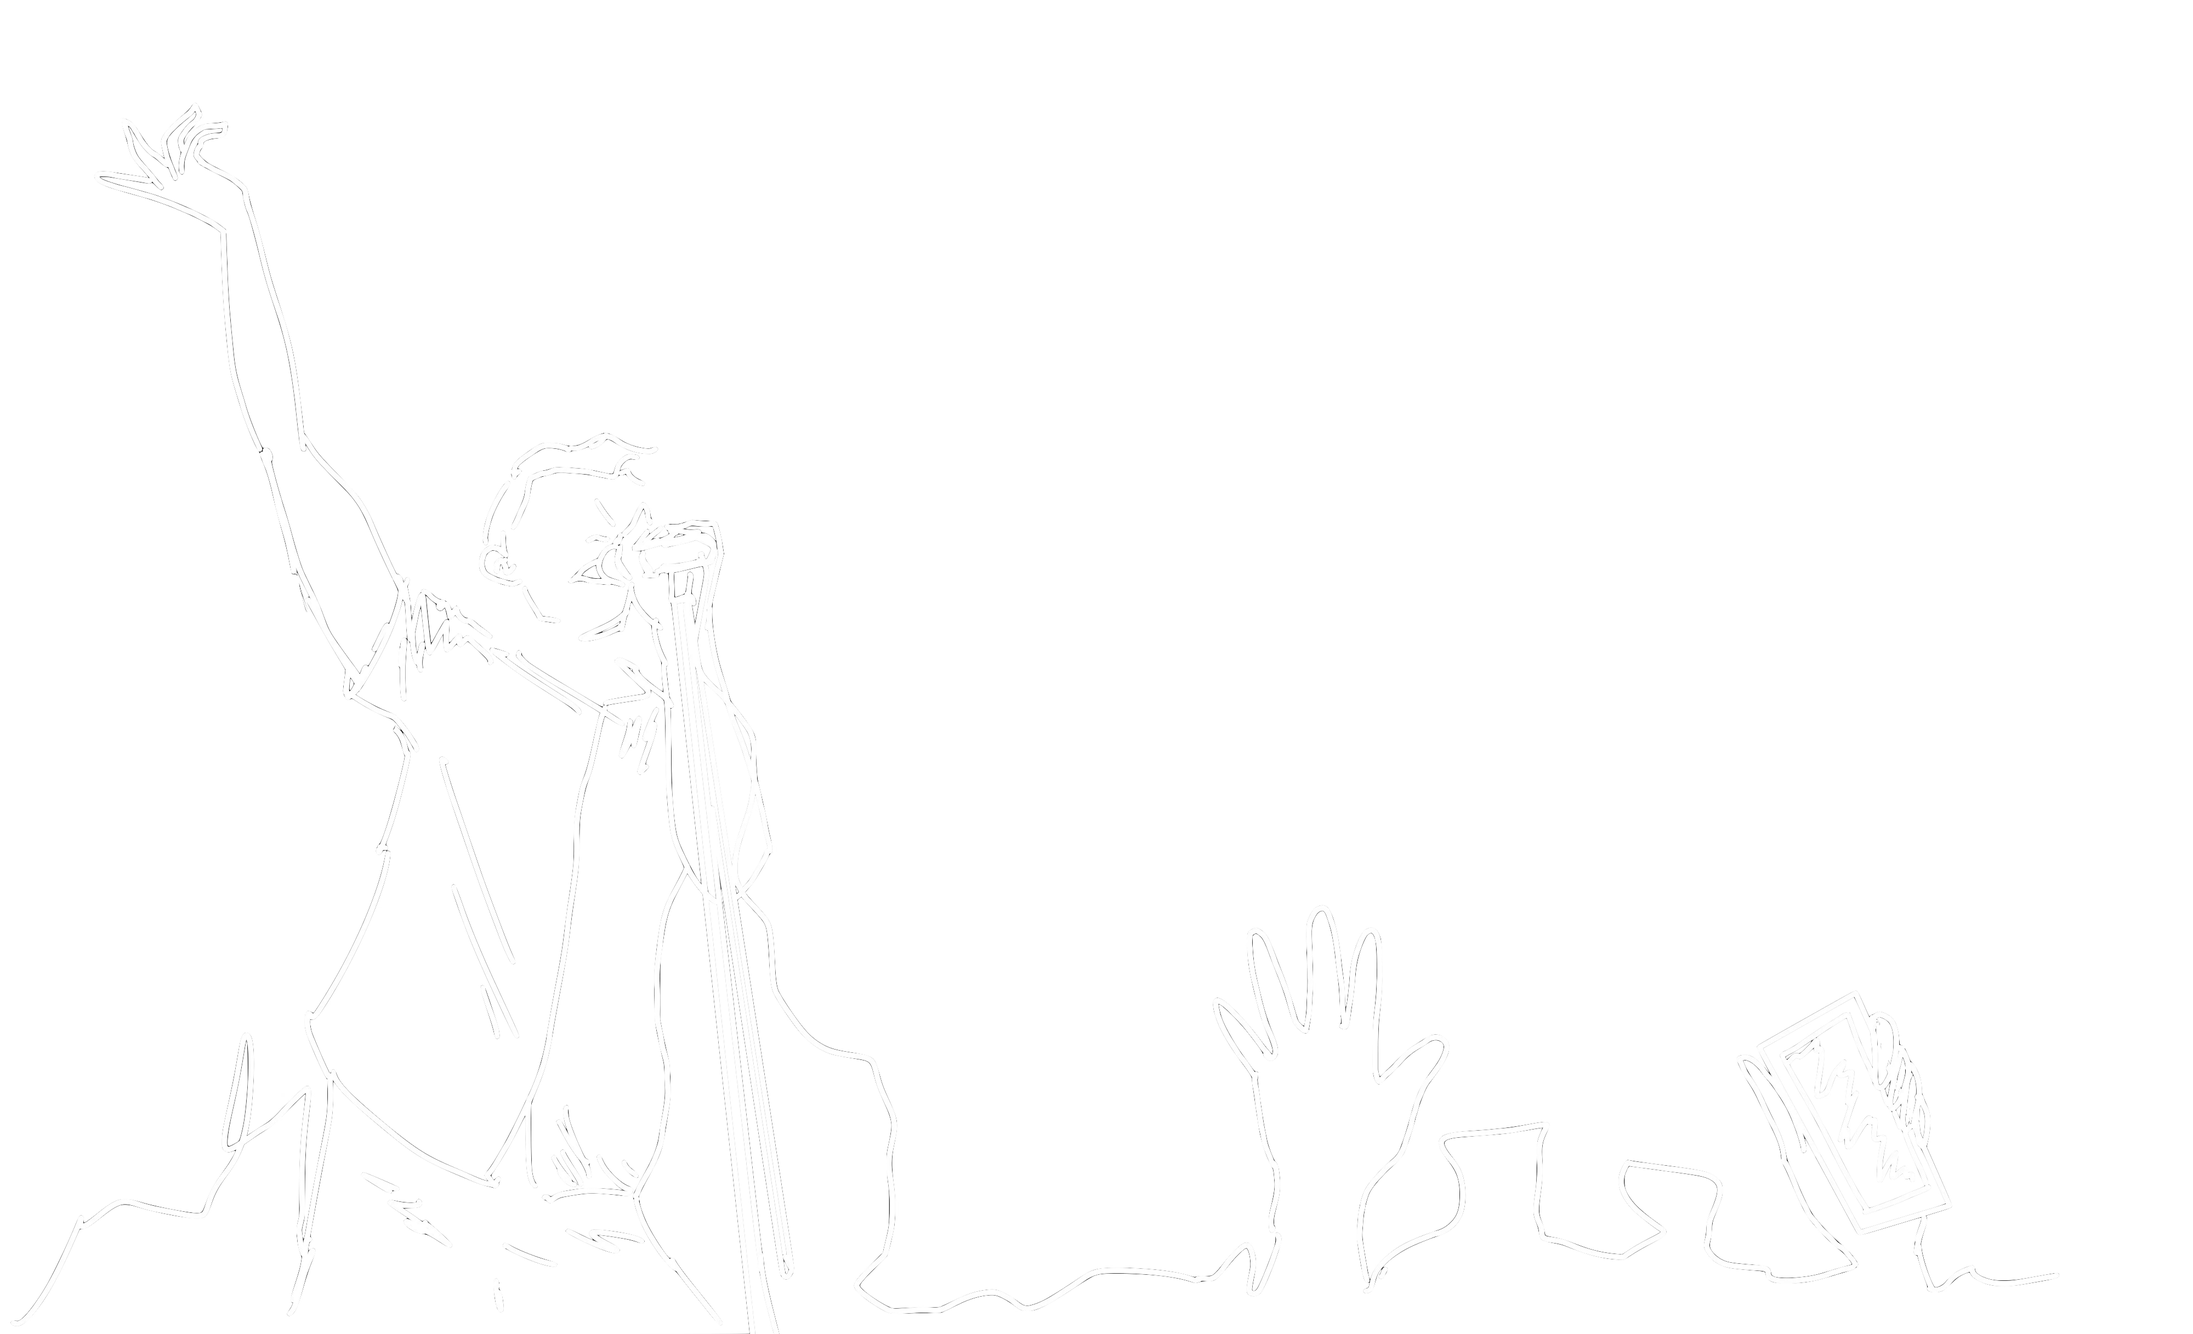
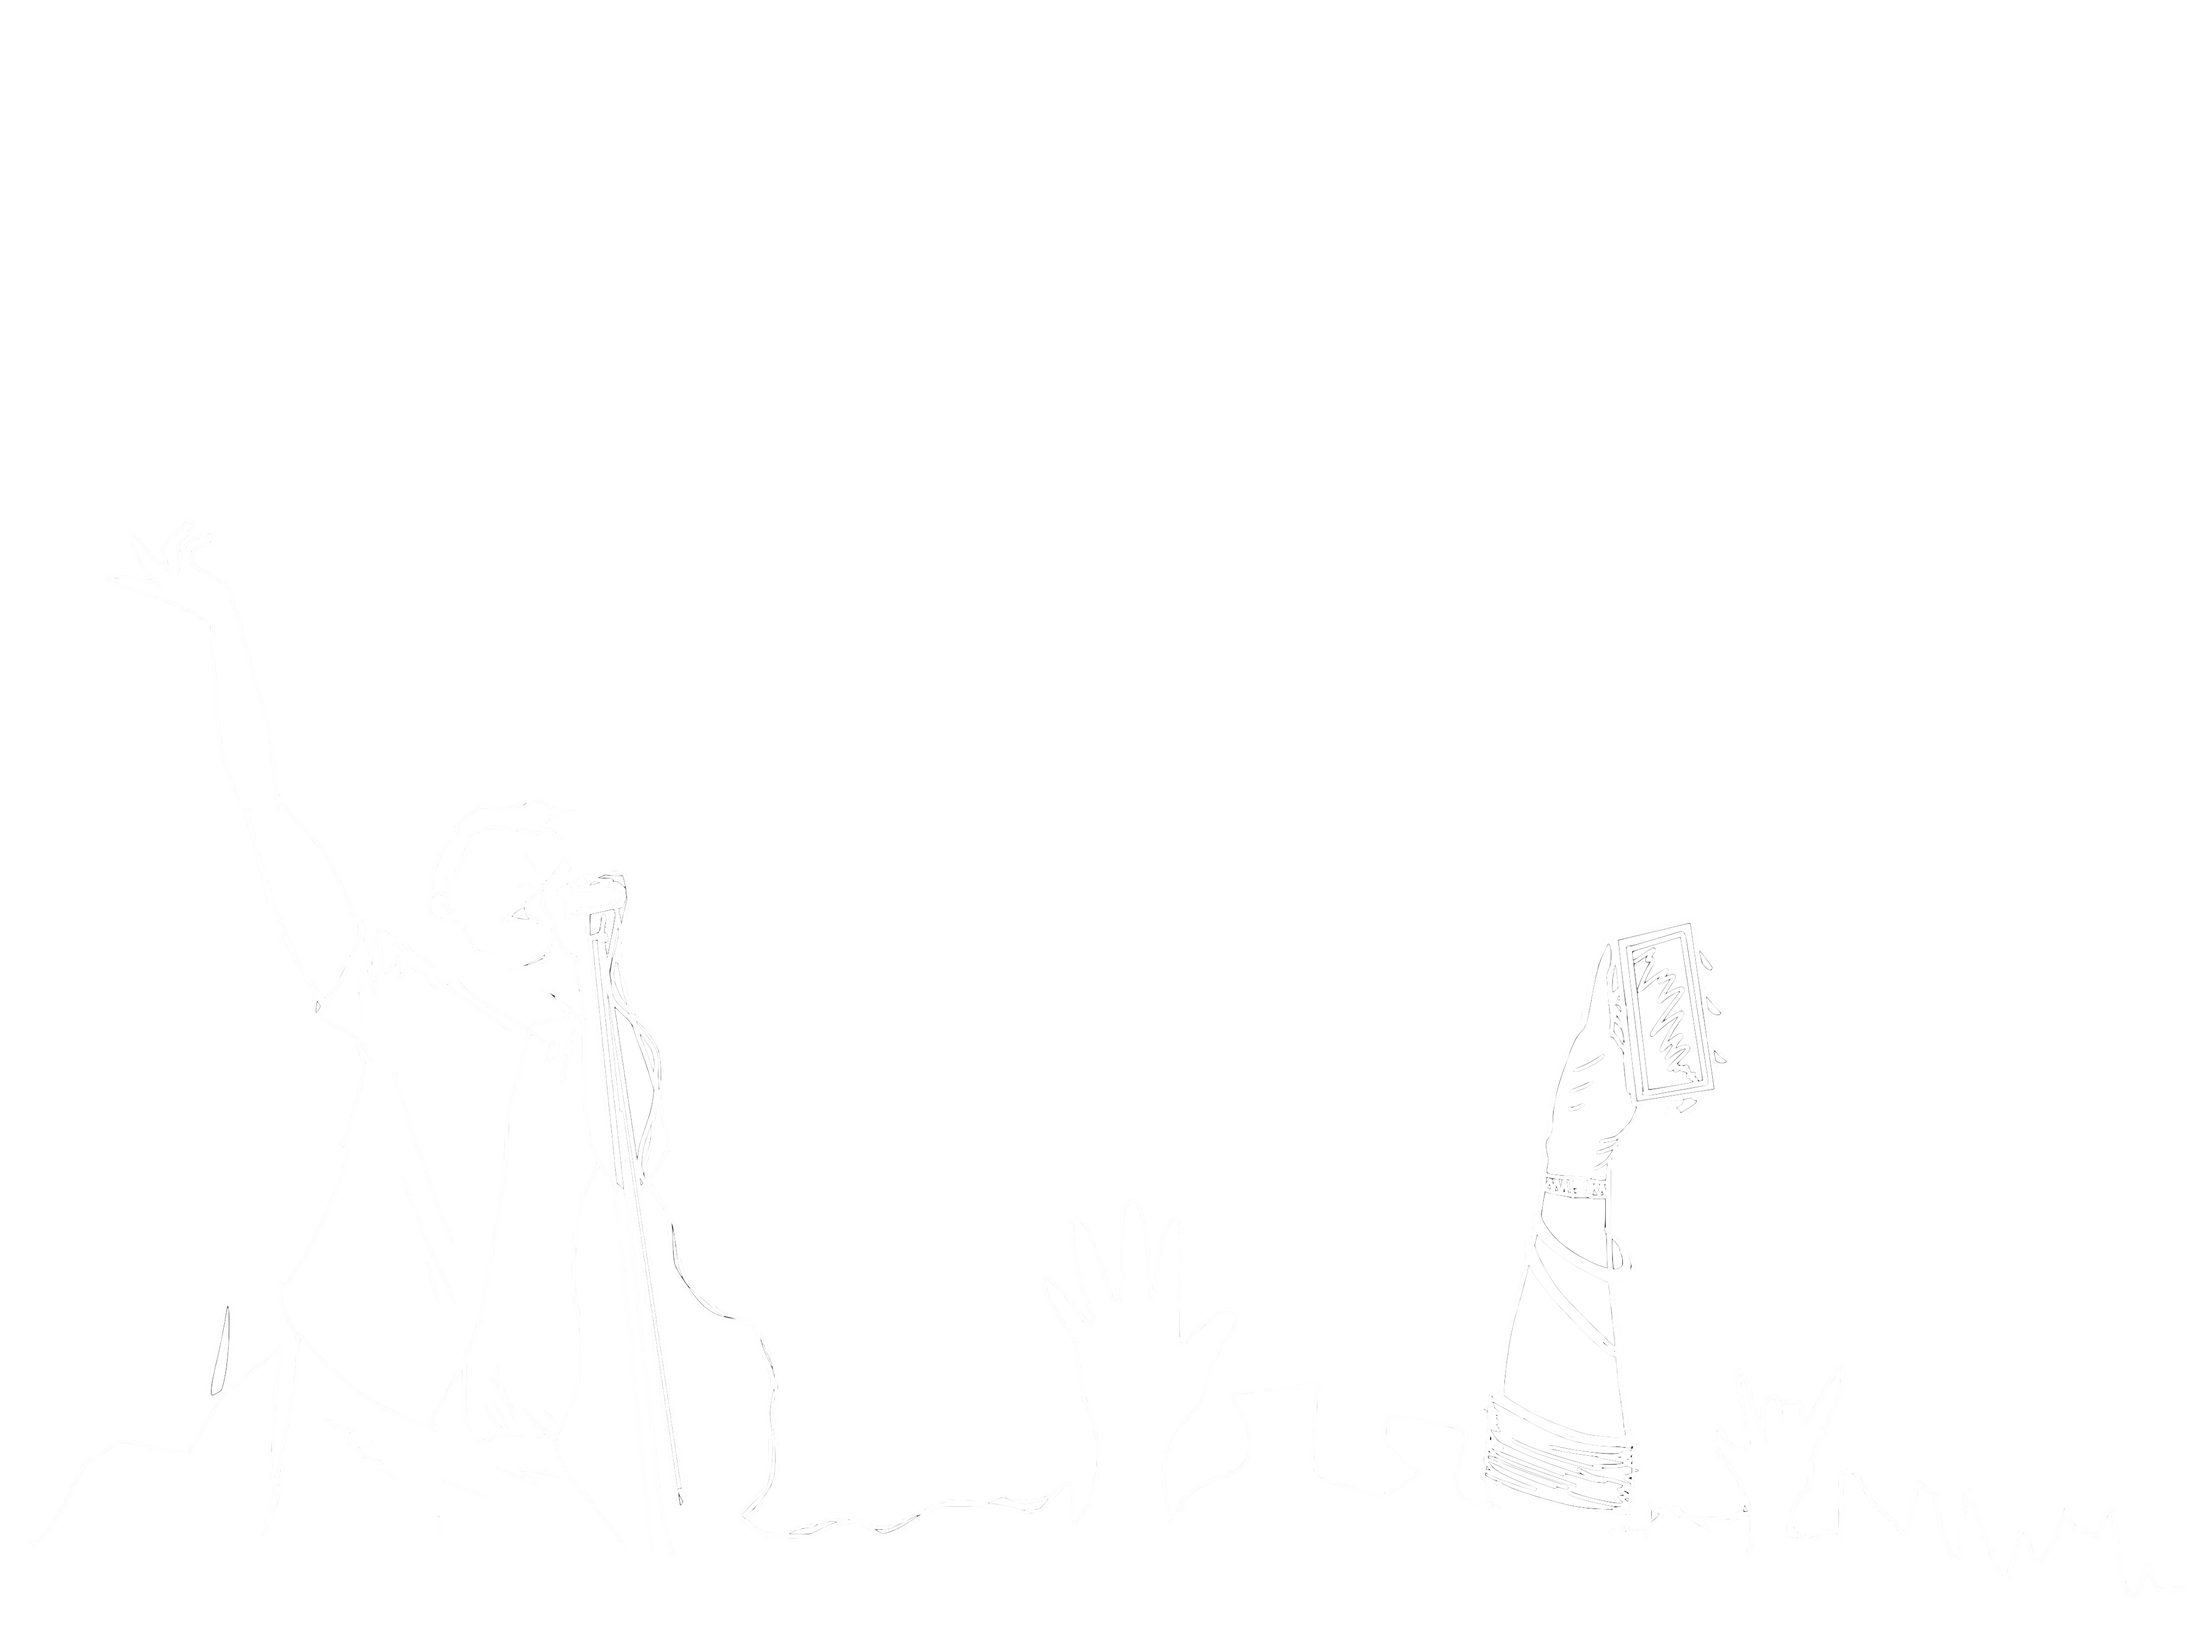
Fixed new front pic

Changed region(s): [[0.75, 0.5933, 0.7812, 0.6245], [0.6875, 0.8743, 0.7188, 0.9055], [0.3125, 0.9992, 0.3438, 1.0]]

diff --git a/src/features/home/Home.tsx b/src/features/home/Home.tsx
@@ -57,7 +57,7 @@ function Home(props: IHomeReduxProps) {
 
       <div className="hero min-h-screen bg-gradient-to-r from-black to-secondary">
         <div className="hero-overlay bg-opacity-0 ">
-          <img className="w-10/12 lg:w-9/12 bottom-0 absolute" src={tidahome} />
+          <img className="w-10/12 lg:w-10/12 lg:ml-36 ml-5 bottom-0 absolute" src={tidahome} />
         </div>
         <div className="hero-content text-center text-neutral-content">
           <div className="max-w-md">
